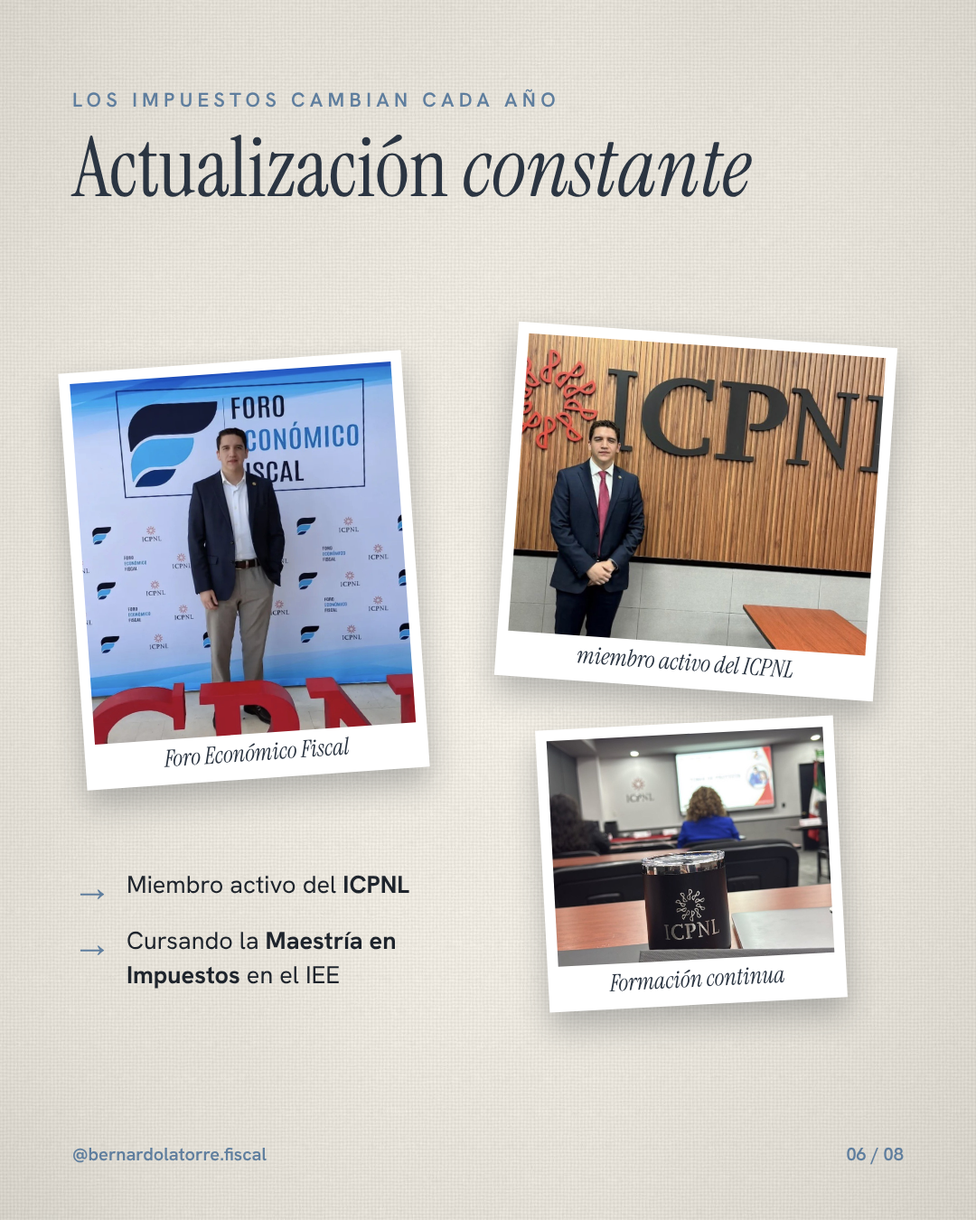
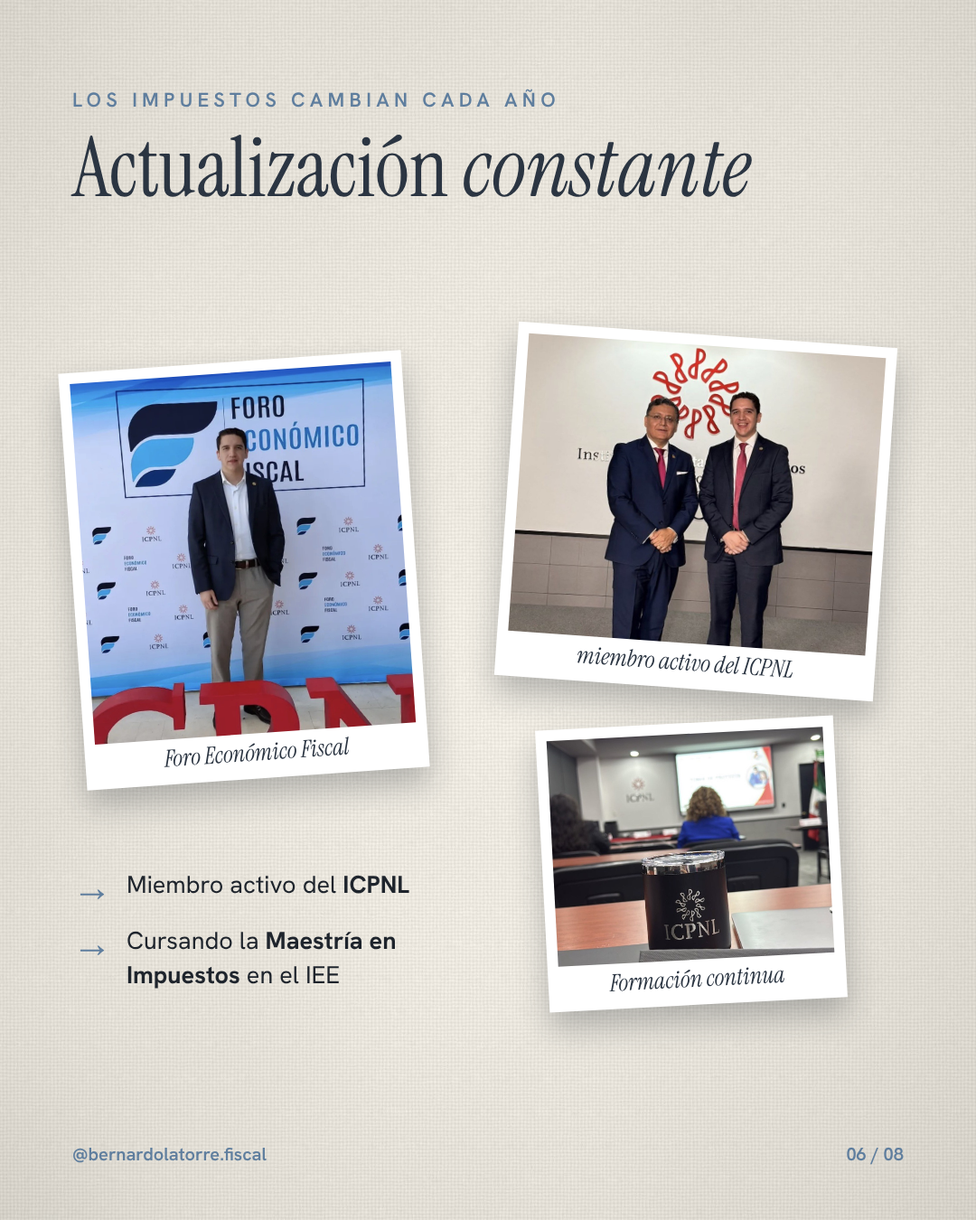
Presentación formal: foto en portada, sin apodo, socio
Claude-Session: https://claude.ai/code/session_01J2dboEZNzBYhxcXmwSfC74

Changed region(s): [[0.5194, 0.2489, 0.9167, 0.56]]

diff --git a/recursos/plantillas/Pre-03-Trayectoria.dc.html b/recursos/plantillas/Pre-03-Trayectoria.dc.html
@@ -28,9 +28,9 @@ a{color:inherit}
 <div aria-hidden="true" style="position: absolute; left: 101px; top: 345px; width: 3px; height: 680px; background: #2B3542"></div>
 <div style="position: absolute; left: 80px; top: 360px; width: 540px; display: flex; gap: 26px; align-items: flex-start"><div style="width: 36px; height: 36px; border-radius: 50%; background: #B7CFE6; border: 5px solid #EEEAE1; box-shadow: 0 0 0 2px #2B3542; flex-shrink: 0; margin-top: 6px"></div><div><div class="kicker" style="font-size: 18px; color: #5F7E9E">2019 · UDEM</div><div class="serif" style="font-size: 44px; line-height: 1.05; color: #2B3542; margin-top: 4px">Contador Público</div><div style="font-size: 24px; line-height: 1.4; color: #3A4552; margin-top: 4px">Universidad de Monterrey.</div></div></div>
 <div style="position: absolute; left: 80px; top: 570px; width: 540px; display: flex; gap: 26px; align-items: flex-start"><div style="width: 36px; height: 36px; border-radius: 50%; background: #B7CFE6; border: 5px solid #EEEAE1; box-shadow: 0 0 0 2px #2B3542; flex-shrink: 0; margin-top: 6px"></div><div><div class="kicker" style="font-size: 18px; color: #5F7E9E">8 AÑOS</div><div class="serif" style="font-size: 44px; line-height: 1.05; color: #2B3542; margin-top: 4px">Big Four</div><div style="font-size: 24px; line-height: 1.4; color: #3A4552; margin-top: 4px">4 años en Deloitte y 4 en EY.</div></div></div>
-<div style="position: absolute; left: 80px; top: 780px; width: 540px; display: flex; gap: 26px; align-items: flex-start"><div style="width: 36px; height: 36px; border-radius: 50%; background: #A9C9A9; border: 5px solid #EEEAE1; box-shadow: 0 0 0 2px #2B3542; flex-shrink: 0; margin-top: 6px"></div><div><div class="kicker" style="font-size: 18px; color: #5F7E9E">HOY</div><div class="serif" style="font-size: 44px; line-height: 1.05; color: #2B3542; margin-top: 4px">GGTZ Consultores</div><div style="font-size: 24px; line-height: 1.4; color: #3A4552; margin-top: 4px">Socio fundador (antes Latorre y Asociados).</div></div></div>
+<div style="position: absolute; left: 80px; top: 780px; width: 540px; display: flex; gap: 26px; align-items: flex-start"><div style="width: 36px; height: 36px; border-radius: 50%; background: #A9C9A9; border: 5px solid #EEEAE1; box-shadow: 0 0 0 2px #2B3542; flex-shrink: 0; margin-top: 6px"></div><div><div class="kicker" style="font-size: 18px; color: #5F7E9E">HOY</div><div class="serif" style="font-size: 44px; line-height: 1.05; color: #2B3542; margin-top: 4px">GGTZ Consultores</div><div style="font-size: 24px; line-height: 1.4; color: #3A4552; margin-top: 4px">Socio (antes Latorre y Asociados).</div></div></div>
 <div style="position: absolute; left: 80px; top: 990px; width: 540px; display: flex; gap: 26px; align-items: flex-start"><div style="width: 36px; height: 36px; border-radius: 50%; background: #D9B4A8; border: 5px solid #EEEAE1; box-shadow: 0 0 0 2px #2B3542; flex-shrink: 0; margin-top: 6px"></div><div><div class="kicker" style="font-size: 18px; color: #5F7E9E">EN CURSO</div><div class="serif" style="font-size: 44px; line-height: 1.05; color: #2B3542; margin-top: 4px">Maestría en Impuestos</div><div style="font-size: 24px; line-height: 1.4; color: #3A4552; margin-top: 4px">En el IEE.</div></div></div>
-<div style="position: absolute; left: 650px; top: 300px; width: 360px; box-sizing: border-box; padding: 12px 12px 50px; background: #FFFFFF; transform: rotate(4deg); box-shadow: 0 18px 34px rgba(30,36,44,0.28)"><img src="/_blob/af1d182640088e390fc9a1587aeb8853" alt="Bernardo Latorre recibiendo el tercer lugar del Caso ICPNL 2017" style="display: block; width: 100%; height: 220px; object-fit: cover; object-position: 55% 40%"><div style="position: absolute; left: 0; right: 0; bottom: 12px; text-align: center; font-family: 'Instrument Serif', serif; font-style: italic; font-size: 26px; color: #2B3542">ICPNL</div></div>
+<div style="position: absolute; left: 650px; top: 300px; width: 360px; box-sizing: border-box; padding: 12px 12px 50px; background: #FFFFFF; transform: rotate(4deg); box-shadow: 0 18px 34px rgba(30,36,44,0.28)"><img src="/_blob/af1d182640088e390fc9a1587aeb8853" alt="Bernardo Latorre en el ICPNL" style="display: block; width: 100%; height: 220px; object-fit: cover; object-position: 55% 40%"><div style="position: absolute; left: 0; right: 0; bottom: 12px; text-align: center; font-family: 'Instrument Serif', serif; font-style: italic; font-size: 26px; color: #2B3542">ICPNL</div></div>
 <div style="position: absolute; left: 690px; top: 640px; width: 300px; box-sizing: border-box; padding: 12px 12px 50px; background: #FFFFFF; transform: rotate(-4deg); box-shadow: 0 18px 34px rgba(30,36,44,0.28)"><img src="/_blob/4ead5090323fb1e8ec01f1ce6a258d51" alt="Bernardo Latorre tocando la campana en su graduación" style="display: block; width: 100%; height: 300px; object-fit: cover; object-position: 40% 40%"><div style="position: absolute; left: 0; right: 0; bottom: 12px; text-align: center; font-family: 'Instrument Serif', serif; font-style: italic; font-size: 26px; color: #2B3542">Graduación UDEM</div></div>
 <div aria-hidden="true" style="position: absolute; left: 760px; top: 624px; width: 140px; height: 40px; background: rgba(183,207,230,0.85); transform: rotate(5deg)"></div>
 <div style="position: absolute; left: 80px; right: 80px; bottom: 60px; display: flex; justify-content: space-between; font-size: 20px; font-weight: 600; color: #5F7E9E"><span>@bernardolatorre.fiscal</span><span>03 / 08</span></div>

diff --git a/recursos/plantillas/Pre-06-Aprendiendo.dc.html b/recursos/plantillas/Pre-06-Aprendiendo.dc.html
@@ -28,7 +28,7 @@ a{color:inherit}
 <h2 class="serif" style="margin: 0; font-size: 92px; line-height: 0.94; color: #2B3542">Actualización <em style="font-style: italic">constante</em></h2>
 </div>
 <div style="position: absolute; left: 80px; top: 400px; width: 380px; box-sizing: border-box; padding: 12px 12px 50px; background: #FFFFFF; transform: rotate(-4deg); box-shadow: 0 18px 34px rgba(30,36,44,0.28)"><img src="/_blob/3fe85b200d3b7acd10e189542208fef2" alt="Bernardo Latorre en el Foro Económico Fiscal del ICPNL" style="display: block; width: 100%; height: 400px; object-fit: cover; object-position: 50% 30%"><div style="position: absolute; left: 0; right: 0; bottom: 12px; text-align: center; font-family: 'Instrument Serif', serif; font-style: italic; font-size: 26px; color: #2B3542">Foro Económico Fiscal</div></div>
-<div style="position: absolute; left: 560px; top: 370px; width: 420px; box-sizing: border-box; padding: 12px 12px 50px; background: #FFFFFF; transform: rotate(4deg); box-shadow: 0 18px 34px rgba(30,36,44,0.28)"><img src="/_blob/a2422d80cf89486e9000c552c64f9d5f" alt="Bernardo Latorre frente al logo del ICPNL" style="display: block; width: 100%; height: 330px; object-fit: cover; object-position: 25% 35%"><div style="position: absolute; left: 0; right: 0; bottom: 12px; text-align: center; font-family: 'Instrument Serif', serif; font-style: italic; font-size: 26px; color: #2B3542">miembro activo del ICPNL</div></div>
+<div style="position: absolute; left: 560px; top: 370px; width: 420px; box-sizing: border-box; padding: 12px 12px 50px; background: #FFFFFF; transform: rotate(4deg); box-shadow: 0 18px 34px rgba(30,36,44,0.28)"><img src="/_blob/4d623ee1f9fdf083e493b1b0adcdb71b" alt="Bernardo Latorre en el ICPNL" style="display: block; width: 100%; height: 330px; object-fit: cover; object-position: 50% 35%"><div style="position: absolute; left: 0; right: 0; bottom: 12px; text-align: center; font-family: 'Instrument Serif', serif; font-style: italic; font-size: 26px; color: #2B3542">miembro activo del ICPNL</div></div>
 <div style="position: absolute; left: 600px; top: 800px; width: 330px; box-sizing: border-box; padding: 12px 12px 50px; background: #FFFFFF; transform: rotate(-3deg); box-shadow: 0 18px 34px rgba(30,36,44,0.28)"><img src="/_blob/1f8dc3829c55597e9446e20484a1c9ab" alt="Sesión en el ICPNL" style="display: block; width: 100%; height: 250px; object-fit: cover; object-position: 50% 60%"><div style="position: absolute; left: 0; right: 0; bottom: 12px; text-align: center; font-family: 'Instrument Serif', serif; font-style: italic; font-size: 26px; color: #2B3542">Formación continua</div></div>
 <div style="position: absolute; left: 80px; top: 960px; width: 470px; display: flex; flex-direction: column; gap: 18px">
 <div style="display: flex; gap: 16px; align-items: flex-start"><span class="serif" style="font-size: 44px; line-height: 1; color: #5F7E9E">→</span><span style="font-size: 27px; line-height: 1.4">Miembro activo del <strong>ICPNL</strong></span></div>

diff --git a/recursos/plantillas/Pre-02-Quien.dc.html b/recursos/plantillas/Pre-02-Quien.dc.html
@@ -2,7 +2,7 @@
 <html lang="es">
 <head>
 <meta charset="utf-8">
-<title>Presentación · Quién soy</title>
+<title>Presentación · Perfil</title>
 <script src="./support.js"></script>
 </head>
 <body>
@@ -24,14 +24,14 @@ a{color:inherit}
 <div class="bg-sarga" style="width: 1080px; height: 1350px; position: relative; overflow: hidden; font-family: 'Hanken Grotesk', sans-serif; color: #F4F1EA;">
 
 <div style="position: absolute; right: 0; top: 0; width: 500px; height: 1350px; overflow: hidden">
-<img src="/_blob/2f83584efd5212cf53d3f370478a98a0" alt="Bernardo Latorre" style="width: 100%; height: 100%; object-fit: cover; object-position: 30% 30%">
+<img src="/_blob/a2422d80cf89486e9000c552c64f9d5f" alt="Bernardo Latorre en el ICPNL" style="width: 100%; height: 100%; object-fit: cover; object-position: 22% 40%">
 <div aria-hidden="true" style="position: absolute; inset: 0; background: linear-gradient(90deg, rgba(38,47,59,0.9) 0%, rgba(38,47,59,0) 35%)"></div>
 </div>
 <div style="position: absolute; left: 80px; top: 120px; width: 470px; display: flex; flex-direction: column; gap: 30px">
-<div class="kicker" style="color: #B7CFE6">QUIÉN SOY</div>
-<h2 class="serif" style="margin: 0; font-size: 86px; line-height: 0.94">Asesoría fiscal <em style="font-style: italic; color: #B7CFE6">con respaldo</em></h2>
-<p style="margin: 0; font-size: 29px; line-height: 1.5; color: rgba(244,241,234,0.9)">Soy <strong style="color: #F4F1EA">Contador Público</strong> egresado de la UDEM y socio fundador de <strong style="color: #F4F1EA">GGTZ Consultores</strong>, despacho de asesoría fiscal y legal en Monterrey.</p>
-<p style="margin: 0; font-size: 29px; line-height: 1.5; color: rgba(244,241,234,0.9)">Mi especialidad es el cumplimiento y la planeación fiscal de personas físicas y PyMEs.</p>
+<div class="kicker" style="color: #B7CFE6">PERFIL</div>
+<h2 class="serif" style="margin: 0; font-size: 86px; line-height: 0.94">Asesoría fiscal <em style="font-style: italic; color: #B7CFE6">con experiencia</em></h2>
+<p style="margin: 0; font-size: 29px; line-height: 1.5; color: rgba(244,241,234,0.9)"><strong style="color: #F4F1EA">Contador Público</strong> egresado de la UDEM y socio de <strong style="color: #F4F1EA">GGTZ Consultores</strong>, despacho de asesoría fiscal y legal en Monterrey.</p>
+<p style="margin: 0; font-size: 29px; line-height: 1.5; color: rgba(244,241,234,0.9)">Especializado en cumplimiento y planeación fiscal para personas físicas y PyMEs.</p>
 </div>
 <div style="position: absolute; left: 80px; top: 1080px; padding: 14px 24px; background: #F4F1EA; color: #2B3542; font-size: 22px; font-weight: 700; letter-spacing: 0.12em; transform: rotate(-2deg)">MONTERREY, N.L.</div>
 <div style="position: absolute; left: 80px; right: 80px; bottom: 60px; display: flex; justify-content: space-between; font-size: 20px; font-weight: 600; color: rgba(244,241,234,0.6)"><span>@bernardolatorre.fiscal</span><span>02 / 08</span></div>

diff --git a/recursos/plantillas/Pre-08-Cierre.dc.html b/recursos/plantillas/Pre-08-Cierre.dc.html
@@ -31,11 +31,11 @@ a{color:inherit}
 <div aria-hidden="true" style="position: absolute; right: 30px; top: 790px; width: 470px; height: 470px; border-radius: 50%; background: #A9C9A9"></div>
 <img src="/_blob/25bcb8fe94907e94b0640cf81bd101a6" alt="Bernardo Latorre, GGTZ Consultores" style="position: absolute; right: -30px; bottom: 0; width: 540px; height: auto; filter: drop-shadow(0 14px 24px rgba(0,0,0,0.35))">
 <div style="position: relative; height: 100%; box-sizing: border-box; padding: 470px 80px 64px; display: flex; flex-direction: column; gap: 30px">
-<h2 class="serif" style="margin: 0; font-size: 100px; line-height: 0.92">Estoy para<br><em style="font-style: italic; color: #B7CFE6">asesorarte</em></h2>
-<p style="margin: 0; max-width: 470px; font-size: 30px; line-height: 1.45; color: rgba(244,241,234,0.88)">Si tienes dudas sobre tus impuestos o los de tu empresa, con gusto te atiendo.</p>
-<div style="align-self: flex-start; display: inline-flex; align-items: center; gap: 18px; padding: 26px 40px; background: #F4F1EA; color: #262F3B; font-size: 28px; font-weight: 700; border-radius: 4px">Agenda una asesoría
+<h2 class="serif" style="margin: 0; font-size: 100px; line-height: 0.92">Agende una<br><em style="font-style: italic; color: #B7CFE6">asesoría</em></h2>
+<p style="margin: 0; max-width: 470px; font-size: 30px; line-height: 1.45; color: rgba(244,241,234,0.88)">Atención a personas físicas y empresas en materia fiscal y legal.</p>
+<div style="align-self: flex-start; display: inline-flex; align-items: center; gap: 18px; padding: 26px 40px; background: #F4F1EA; color: #262F3B; font-size: 28px; font-weight: 700; border-radius: 4px">Contactar
 <svg aria-hidden="true" width="30" height="20" viewBox="0 0 40 24" fill="none" stroke="#262F3B" stroke-width="2.4"><path d="M2 12h34M26 3l10 9-10 9"></path></svg></div>
-<div style="max-width: 440px; padding: 22px 28px; background: rgba(244,241,234,0.08); border: 1px solid rgba(244,241,234,0.22); transform: rotate(-1.5deg); font-size: 25px; line-height: 1.4"><strong>Comparte en comentarios</strong> qué tema te gustaría que abordara en próximas publicaciones.</div>
+<div style="max-width: 440px; padding: 22px 28px; background: rgba(244,241,234,0.08); border: 1px solid rgba(244,241,234,0.22); transform: rotate(-1.5deg); font-size: 25px; line-height: 1.4">Martes y jueves publico contenido fiscal. <strong>Le invito a seguir la cuenta.</strong></div>
 <div style="margin-top: auto; display: flex; flex-direction: column; gap: 8px; font-size: 24px; font-weight: 500">
 <span>81 2758 0277 · @bernardolatorre.fiscal</span>
 <span class="serif" style="font-size: 40px; letter-spacing: 0.04em">GGTZ <span style="font-family: 'Hanken Grotesk', sans-serif; font-size: 16px; letter-spacing: 0.3em; color: #B7CFE6">CONSULTORES</span></span>

diff --git a/recursos/plantillas/Pre-01-Portada.dc.html b/recursos/plantillas/Pre-01-Portada.dc.html
@@ -25,11 +25,11 @@ a{color:inherit}
 
 <img src="/_blob/df12d7834689b02a85e1e7c7bb293a70" alt="Bernardo Latorre en su oficina en Monterrey" style="position: absolute; inset: 0; width: 100%; height: 100%; object-fit: cover; object-position: 50% 20%">
 <div aria-hidden="true" style="position: absolute; inset: 0; background: linear-gradient(180deg, rgba(38,47,59,0) 35%, rgba(38,47,59,0.75) 62%, rgba(38,47,59,0.97) 100%)"></div>
-<div style="position: absolute; left: 70px; top: 70px; padding: 12px 22px; background: rgba(244,241,234,0.94); color: #2B3542; font-size: 20px; font-weight: 700; letter-spacing: 0.2em">PERMÍTEME PRESENTARME</div>
-<div style="position: absolute; left: 80px; right: 80px; top: 900px; display: flex; flex-direction: column; gap: 20px">
-<h1 class="serif" style="margin: 0; font-size: 140px; line-height: 0.88">Bernardo Latorre</h1>
-<div style="width: 120px; height: 4px; background: #B7CFE6"></div>
-<p style="margin: 0; font-size: 34px; line-height: 1.35; font-weight: 500">Contador Público · Socio fundador de <span style="color: #B7CFE6">GGTZ Consultores</span></p>
+<div style="position: absolute; left: 70px; top: 70px; padding: 12px 22px; background: rgba(244,241,234,0.94); color: #2B3542; font-size: 20px; font-weight: 700; letter-spacing: 0.24em">PRESENTACIÓN</div>
+<div style="position: absolute; left: 80px; right: 80px; top: 900px; display: flex; flex-direction: column; gap: 22px">
+<h1 class="serif" style="margin: 0; font-size: 140px; line-height: 0.88">Bernardo <em style="font-style: italic; color: #B7CFE6">Latorre</em></h1>
+<div style="width: 140px; height: 3px; background: #B7CFE6"></div>
+<p style="margin: 0; font-size: 32px; line-height: 1.4; font-weight: 500">Contador Público · Socio de GGTZ Consultores</p>
 </div>
 <div style="position: absolute; left: 80px; right: 80px; bottom: 50px; display: flex; justify-content: space-between; font-size: 21px; font-weight: 600; color: rgba(244,241,234,0.8)"><span>@bernardolatorre.fiscal</span><span>Desliza →</span></div>
 

diff --git a/recursos/plantillas/_gen_presentacion.py b/recursos/plantillas/_gen_presentacion.py
@@ -1,4 +1,4 @@
-# Carrusel de presentación "Hola, soy Berny" (Pre-*), 10 oct 2026
+# Carrusel de presentación de Bernardo Latorre (Pre-*), 10 oct 2026
 import importlib.util, pathlib, io, contextlib
 HERE = pathlib.Path(__file__).parent
 spec = importlib.util.spec_from_file_location("base", HERE / "_gen_oct20_22.py")
@@ -6,7 +6,7 @@ base = importlib.util.module_from_spec(spec)
 with contextlib.redirect_stdout(io.StringIO()):
     spec.loader.exec_module(base)
 page, foot, polaroid, tape, cierre, sello = base.page, base.foot, base.polaroid, base.tape, base.cierre, base.sello
-base.IMG.update(
+base.IMG.update(colega="4d623ee1f9fdf083e493b1b0adcdb71b", 
     oficina="df12d7834689b02a85e1e7c7bb293a70", campana="4ead5090323fb1e8ec01f1ce6a258d51",
     caso="af1d182640088e390fc9a1587aeb8853", deloitte1="8a7c7dc900ab04139254ce465038f1e8",
     deloitteeq="be23a7eba4eddb0405ca1c089fe0f071", cumple="ef7401e5a2d861f0e9589b54aa26a24c",
@@ -16,30 +16,30 @@ B = base.B
 T = 8
 S = {}
 
-# 1 · Portada: gafete colgando (sin foto de Berny)
+# 1 · Portada: foto de Bernardo a todo lo ancho
 S["Pre-01-Portada"] = page("Presentación · Portada", "", "#F4F1EA", f"""
 <img src="{B('oficina')}" alt="Bernardo Latorre en su oficina en Monterrey" style="position: absolute; inset: 0; width: 100%; height: 100%; object-fit: cover; object-position: 50% 20%">
 <div aria-hidden="true" style="position: absolute; inset: 0; background: linear-gradient(180deg, rgba(38,47,59,0) 35%, rgba(38,47,59,0.75) 62%, rgba(38,47,59,0.97) 100%)"></div>
-<div style="position: absolute; left: 70px; top: 70px; padding: 12px 22px; background: rgba(244,241,234,0.94); color: #2B3542; font-size: 20px; font-weight: 700; letter-spacing: 0.2em">PERMÍTEME PRESENTARME</div>
-<div style="position: absolute; left: 80px; right: 80px; top: 900px; display: flex; flex-direction: column; gap: 20px">
-<h1 class="serif" style="margin: 0; font-size: 140px; line-height: 0.88">Bernardo Latorre</h1>
-<div style="width: 120px; height: 4px; background: #B7CFE6"></div>
-<p style="margin: 0; font-size: 34px; line-height: 1.35; font-weight: 500">Contador Público · Socio fundador de <span style="color: #B7CFE6">GGTZ Consultores</span></p>
+<div style="position: absolute; left: 70px; top: 70px; padding: 12px 22px; background: rgba(244,241,234,0.94); color: #2B3542; font-size: 20px; font-weight: 700; letter-spacing: 0.24em">PRESENTACIÓN</div>
+<div style="position: absolute; left: 80px; right: 80px; top: 900px; display: flex; flex-direction: column; gap: 22px">
+<h1 class="serif" style="margin: 0; font-size: 140px; line-height: 0.88">Bernardo <em style="font-style: italic; color: #B7CFE6">Latorre</em></h1>
+<div style="width: 140px; height: 3px; background: #B7CFE6"></div>
+<p style="margin: 0; font-size: 32px; line-height: 1.4; font-weight: 500">Contador Público · Socio de GGTZ Consultores</p>
 </div>
 <div style="position: absolute; left: 80px; right: 80px; bottom: 50px; display: flex; justify-content: space-between; font-size: 21px; font-weight: 600; color: rgba(244,241,234,0.8)"><span>@bernardolatorre.fiscal</span><span>Desliza →</span></div>
 """)
 
 # 2 · Quién soy: foto grande a la derecha
-S["Pre-02-Quien"] = page("Presentación · Quién soy", "bg-sarga", "#F4F1EA", f"""
+S["Pre-02-Quien"] = page("Presentación · Perfil", "bg-sarga", "#F4F1EA", f"""
 <div style="position: absolute; right: 0; top: 0; width: 500px; height: 1350px; overflow: hidden">
-<img src="{B('bandera')}" alt="Bernardo Latorre" style="width: 100%; height: 100%; object-fit: cover; object-position: 30% 30%">
+<img src="{B('icpnl')}" alt="Bernardo Latorre en el ICPNL" style="width: 100%; height: 100%; object-fit: cover; object-position: 22% 40%">
 <div aria-hidden="true" style="position: absolute; inset: 0; background: linear-gradient(90deg, rgba(38,47,59,0.9) 0%, rgba(38,47,59,0) 35%)"></div>
 </div>
 <div style="position: absolute; left: 80px; top: 120px; width: 470px; display: flex; flex-direction: column; gap: 30px">
-<div class="kicker" style="color: #B7CFE6">QUIÉN SOY</div>
-<h2 class="serif" style="margin: 0; font-size: 86px; line-height: 0.94">Asesoría fiscal <em style="font-style: italic; color: #B7CFE6">con respaldo</em></h2>
-<p style="margin: 0; font-size: 29px; line-height: 1.5; color: rgba(244,241,234,0.9)">Soy <strong style="color: #F4F1EA">Contador Público</strong> egresado de la UDEM y socio fundador de <strong style="color: #F4F1EA">GGTZ Consultores</strong>, despacho de asesoría fiscal y legal en Monterrey.</p>
-<p style="margin: 0; font-size: 29px; line-height: 1.5; color: rgba(244,241,234,0.9)">Mi especialidad es el cumplimiento y la planeación fiscal de personas físicas y PyMEs.</p>
+<div class="kicker" style="color: #B7CFE6">PERFIL</div>
+<h2 class="serif" style="margin: 0; font-size: 86px; line-height: 0.94">Asesoría fiscal <em style="font-style: italic; color: #B7CFE6">con experiencia</em></h2>
+<p style="margin: 0; font-size: 29px; line-height: 1.5; color: rgba(244,241,234,0.9)"><strong style="color: #F4F1EA">Contador Público</strong> egresado de la UDEM y socio de <strong style="color: #F4F1EA">GGTZ Consultores</strong>, despacho de asesoría fiscal y legal en Monterrey.</p>
+<p style="margin: 0; font-size: 29px; line-height: 1.5; color: rgba(244,241,234,0.9)">Especializado en cumplimiento y planeación fiscal para personas físicas y PyMEs.</p>
 </div>
 <div style="position: absolute; left: 80px; top: 1080px; padding: 14px 24px; background: #F4F1EA; color: #2B3542; font-size: 22px; font-weight: 700; letter-spacing: 0.12em; transform: rotate(-2deg)">MONTERREY, N.L.</div>
 {foot('@bernardolatorre.fiscal', 2, T, True)}
@@ -56,9 +56,9 @@ S["Pre-03-Trayectoria"] = page("Presentación · Trayectoria", "bg-lino", "#1E24
 <div aria-hidden="true" style="position: absolute; left: 101px; top: 345px; width: 3px; height: 680px; background: #2B3542"></div>
 {hito(360, '2019 · UDEM', 'Contador Público', 'Universidad de Monterrey.')}
 {hito(570, '8 AÑOS', 'Big Four', '4 años en Deloitte y 4 en EY.')}
-{hito(780, 'HOY', 'GGTZ Consultores', 'Socio fundador (antes Latorre y Asociados).', '#A9C9A9')}
+{hito(780, 'HOY', 'GGTZ Consultores', 'Socio (antes Latorre y Asociados).', '#A9C9A9')}
 {hito(990, 'EN CURSO', 'Maestría en Impuestos', 'En el IEE.', '#D9B4A8')}
-{polaroid('caso', 'ICPNL', 650, 300, 360, 220, 4, '55% 40%', 'Bernardo Latorre recibiendo el tercer lugar del Caso ICPNL 2017')}
+{polaroid('caso', 'ICPNL', 650, 300, 360, 220, 4, '55% 40%', 'Bernardo Latorre en el ICPNL')}
 {polaroid('campana', 'Graduación UDEM', 690, 640, 300, 300, -4, '40% 40%', 'Bernardo Latorre tocando la campana en su graduación')}
 {tape(760, 624, 140, 5)}
 {foot('@bernardolatorre.fiscal', 3, T)}
@@ -103,7 +103,7 @@ S["Pre-06-Aprendiendo"] = page("Presentación · Comunidad", "bg-lino", "#1E242C
 <h2 class="serif" style="margin: 0; font-size: 92px; line-height: 0.94; color: #2B3542">Actualización <em style="font-style: italic">constante</em></h2>
 </div>
 {polaroid('foropose', 'Foro Económico Fiscal', 80, 400, 380, 400, -4, '50% 30%', 'Bernardo Latorre en el Foro Económico Fiscal del ICPNL')}
-{polaroid('icpnl', 'miembro activo del ICPNL', 560, 370, 420, 330, 4, '25% 35%', 'Bernardo Latorre frente al logo del ICPNL')}
+{polaroid('colega', 'miembro activo del ICPNL', 560, 370, 420, 330, 4, '50% 35%', 'Bernardo Latorre en el ICPNL')}
 {polaroid('termo', 'Formación continua', 600, 800, 330, 250, -3, '50% 60%', 'Sesión en el ICPNL')}
 <div style="position: absolute; left: 80px; top: 960px; width: 470px; display: flex; flex-direction: column; gap: 18px">
 <div style="display: flex; gap: 16px; align-items: flex-start"><span class="serif" style="font-size: 44px; line-height: 1; color: #5F7E9E">→</span><span style="font-size: 27px; line-height: 1.4">Miembro activo del <strong>ICPNL</strong></span></div>
@@ -127,9 +127,9 @@ S["Pre-07-Cuenta"] = page("Presentación · Esta cuenta", "", "#1E242C", f"""
 {foot('@bernardolatorre.fiscal', 7, T)}
 """, bg=" background: #D9B4A8;")
 
-S["Pre-08-Cierre"] = cierre("Estoy para", "asesorarte",
-    "Si tienes dudas sobre tus impuestos o los de tu empresa, con gusto te atiendo.",
-    "Agenda una asesoría", "<strong>Comparte en comentarios</strong> qué tema te gustaría que abordara en próximas publicaciones.",
+S["Pre-08-Cierre"] = cierre("Agende una", "asesoría",
+    "Atención a personas físicas y empresas en materia fiscal y legal.",
+    "Contactar", "Martes y jueves publico contenido fiscal. <strong>Le invito a seguir la cuenta.</strong>",
     "cerro", "50% 58%", 8, T, "Cerro de la Silla al atardecer")
 
 for k, v in S.items():

diff --git a/recursos/historial.md b/recursos/historial.md
@@ -5,7 +5,7 @@ La tarea programada lee este archivo antes de crear un carrusel (para no repetir
 | Fecha | Tema | Portada (composición + motivo principal) | Piezas nuevas estrenadas | Fotos usadas |
 |---|---|---|---|---|
 | 2026-10-09 | Deducciones personales | Ilustración tipo cooltura (v1) | — | — |
-| 2026-10-10 | Presentación formal de Bernardo Latorre (quién soy, trayectoria, GGTZ) | Foto de Berny a todo lo ancho (oficina) + nombre grande abajo; excepción pedida por él: en presentaciones sí va su foto en portada (motivo: retrato) | Pantalla dividida con foto de Berny; línea de tiempo con hitos; "8" gigante; chips de servicios; post-its sobre terracota | berny: oficina-camisa-azul-laptop, icpnl-caso-2017-tercer-lugar, campana-tocando, deloitte-sillon-verde-1, deloitte-equipo-evento, bandera-universidad, foro-economico-fiscal-pose, icpnl-muro-logo, icpnl-termo-sesion; cerro-de-la-silla-atardecer |
+| 2026-10-10 | Presentación formal: Bernardo Latorre (perfil, trayectoria, GGTZ) | Foto de Bernardo a todo lo ancho (oficina, camisa azul) + nombre grande abajo sobre degradado pizarra (motivo: retrato) | Pantalla dividida con foto; línea de tiempo; "8" gigante; chips de servicios; post-its sobre terracota | berny: oficina-camisa-azul-laptop, icpnl-muro-logo, icpnl-caso-2017-tercer-lugar, campana-tocando, deloitte-sillon-verde-1, deloitte-equipo-evento, foro-economico-fiscal-pose, icpnl-con-colega, icpnl-termo-sesion; cerro-de-la-silla-atardecer |
 | 2026-10-13 | Cierre fiscal 2026 | Foto a todo lo ancho (pareja con carta) + hoja rotada + sticker DIC 31 | Línea de tiempo + celular con captura del SAT; cuadrícula 2×2 + navegador | pareja-preocupada-carta, calculadora-escritorio, persona-calculadora-cuaderno, pilas-de-documentos, navidad-calle-mexicana-estrellas, monterrey-torres-sierra |
 | 2026-10-15 | RESICO | Fondo lino claro: billetes en polaroid grande arriba + sticker 1%–2.5% + título grande abajo sin tarjeta (motivo: dinero) | Tabla oscura con barras; fórmula en bloques; tres polaroids; ejemplo numérico | billetes-pesos-mexicanos, terminal-pago-ticket, comerciante-celular, mujer-laptop-sonriendo, mano-firmando-documento, persona-calculadora-cuaderno, cerro-de-la-silla-atardecer |
 | 2026-10-20 | 5 cosas que, como contador, nunca haría con mis impuestos (idea de Berny, ref. @taxfi_) | Fondo azul polvo liso con puntos + "5" gigante fantasma + hoja "Mi lista de NO" con tachas + sticker circular terracota (sin foto) | Índice numerado oscuro; ticket con sello FALSA; mito tachado vs realidad; chat de WhatsApp; dos cuentas lado a lado; recibo de ahorro | bolsas-de-compras, llaves-casa, taqueria-esquina, pago-tarjeta-terminal, monterrey-sierra-madre |

diff --git a/recursos/GUIA-ESTILO.md b/recursos/GUIA-ESTILO.md
@@ -91,3 +91,8 @@ Después de renderizar, arma una tira con tu portada nueva junto a las 4 anterio
 - **Llamada a la acción:** pedir que **guarden** o **comenten** (funciona mucho mejor que pedir "likes"). La pie de foto incluye una pregunta.
 - **Pie de foto:** escrito con las palabras que la gente busca (SEO dentro de Instagram) y con 1 o 2 hashtags relevantes (máximo 5).
 - **Tono:** cálido, directo y de tú, para personas físicas y PyMEs de México. Nada de lenguaje de abogado.
+
+## Datos de Berny para textos
+
+- Es **socio** de GGTZ Consultores (no "socio fundador").
+- En posts formales o de presentación: usar "Bernardo Latorre", no el apodo "Berny". No mencionar el Caso ICPNL 2017 en texto (la foto sí se puede usar).
